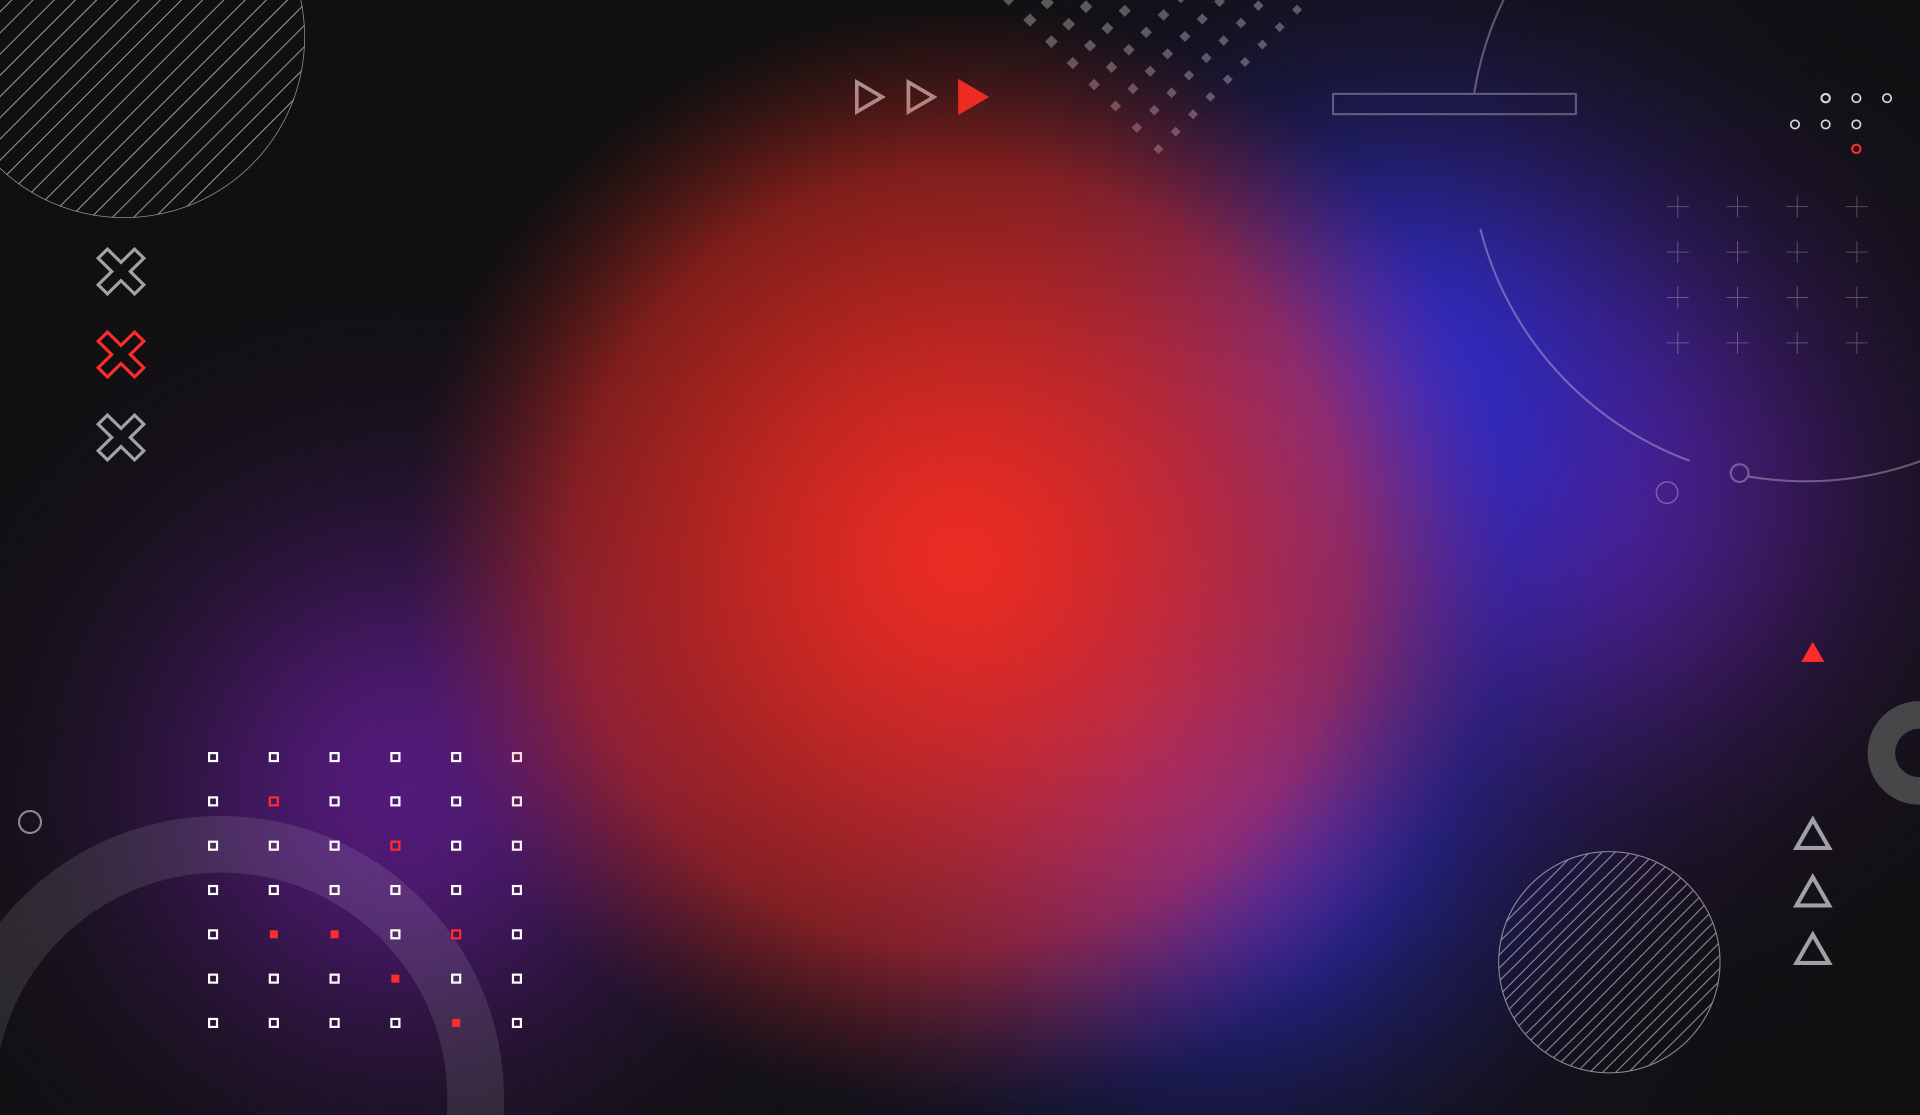
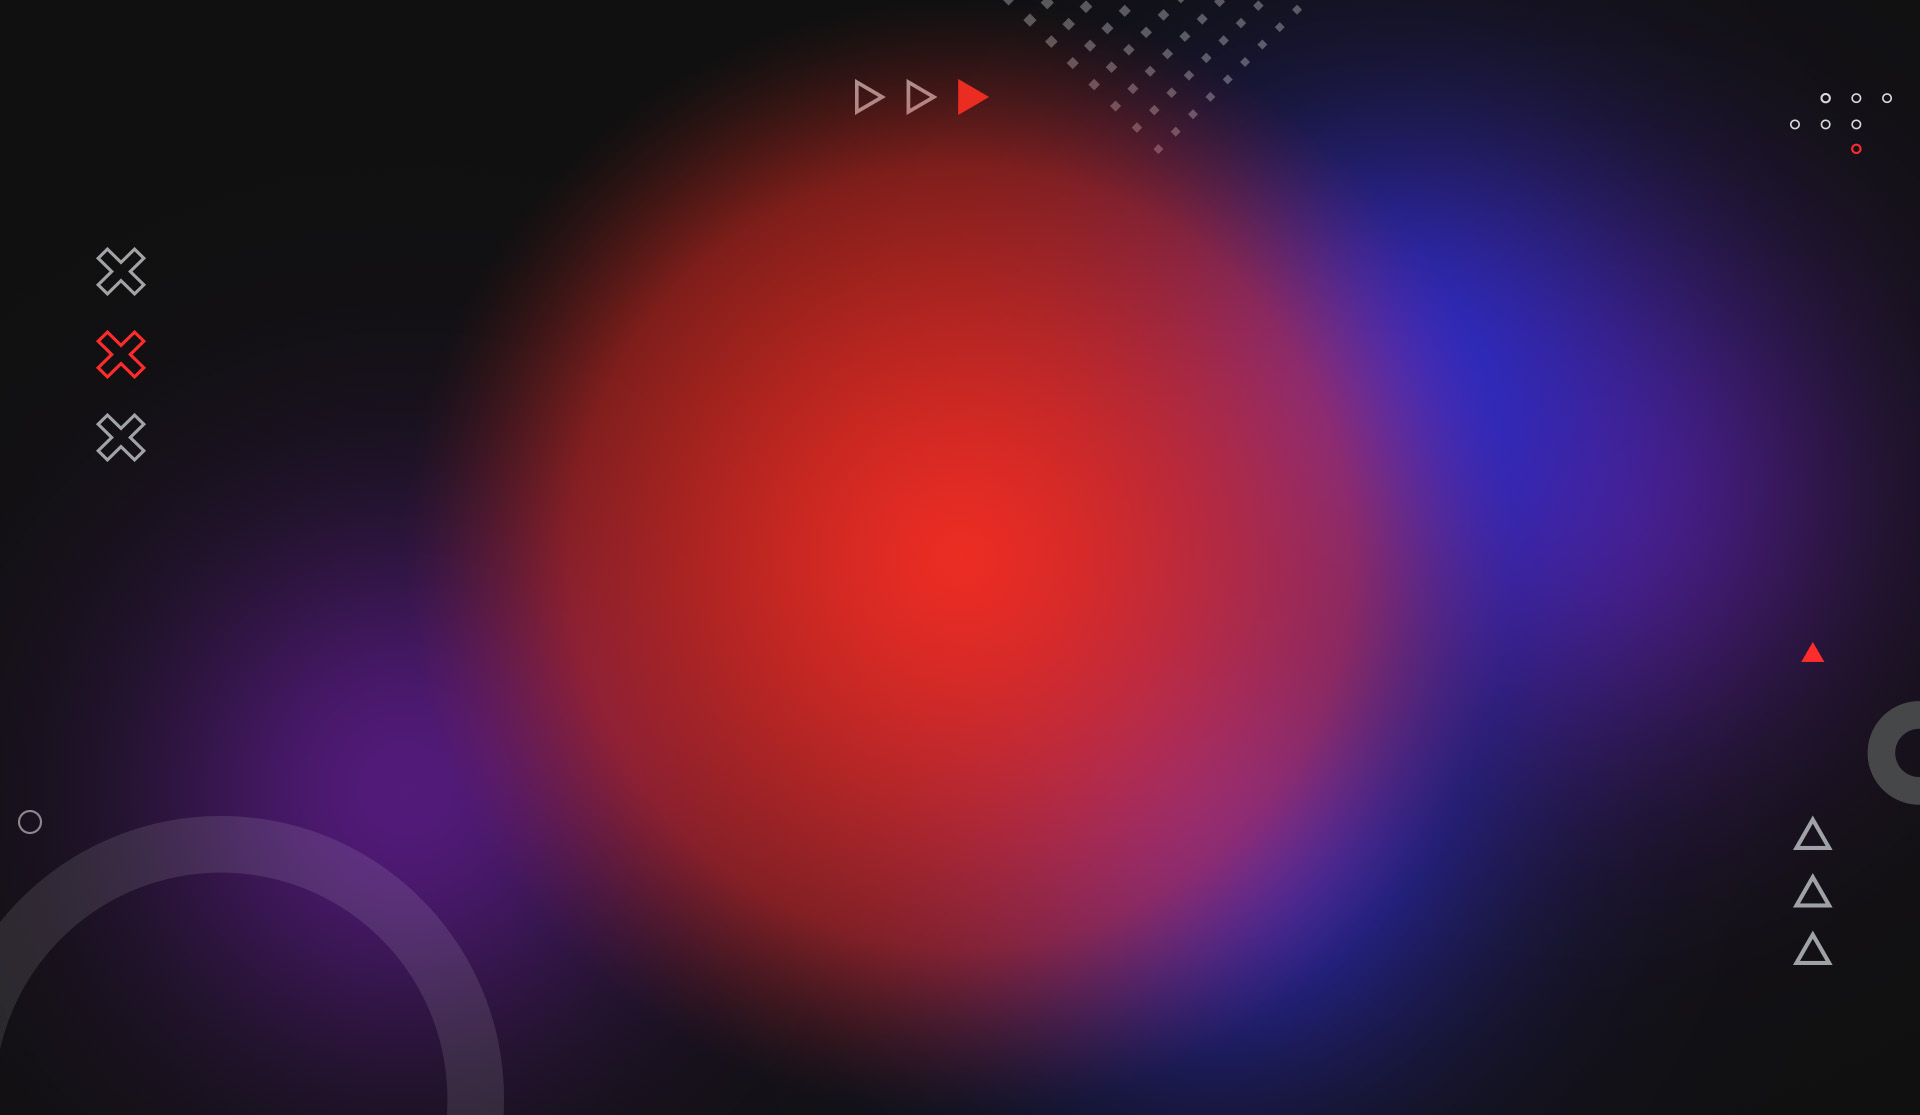
Update Work

Changed region(s): [[0.0, 0.0, 0.1562, 0.183], [0.7812, 0.7623, 0.9062, 0.9758]]

diff --git a/public/css/style.css b/public/css/style.css
@@ -539,6 +539,26 @@ fieldset{padding:0; margin:0; border:0;}
 .ss-card-10 .text-container .title{color:#ffffff;}
 .ss-card-10:hover .text-container .title{color:#ec2c23;}
 
+.ss-card-10.style-02 .icon{
+    position:relative; display:flex; justify-content:center; align-items:center; 
+    width:5rem; height:5rem; margin:0 auto; background:#ffffff;
+    border-radius:50%; transition:background .3s, color .3s;
+}
+.ss-card-10.style-02:hover .icon{background:transparent;}
+.ss-card-10.style-02 .icon > .tech-stack{position: relative; fill:#ec2c23; display:block; width:3rem; height:3rem; transition:fill .3s;}
+.ss-card-10.style-02:hover .icon > .tech-stack{fill:#ffffff;}
+.ss-card-10.style-02:hover .icon > .tech-stack.h-red{fill:#ec2c23;} /* For Bootstrap Icon */
+
+.ss-card-10.style-02 .icon::before{
+    content:''; position:absolute; top:0; left:0; right:0; bottom:0;  margin:auto;
+    background:#ec2c23; border-radius:50%; visibility:hidden;
+    width:calc(100% - .75rem); height:calc(100% - .75rem);
+    opacity:0; transform:scale(.8); transition:all .3s ease;
+}
+.ss-card-10.style-02:hover .icon::before{
+    visibility:visible; opacity:1; transform:scale(1);
+}
+
 /* Special Card 11 */
 .ss-card-11{position:relative; cursor:pointer;}
 .ss-card-11 .text-container{
@@ -702,8 +722,13 @@ fieldset{padding:0; margin:0; border:0;}
     margin:0; height:0; -webkit-line-clamp:4; opacity:0; transition:height .3s, opacity .3s;
 }
 .ss-card-31:hover .text-container .desc{height:6rem; opacity:1;}
-.ss-card-31 .card-more{display:flex; align-items:center; color:#ec2c23; margin:0;}
-.ss-card-31:hover .card-more{margin:2rem 0 0 0;}
+.ss-card-31 .card-more{
+    display:flex; align-items:center; color:#ec2c23; margin:0; max-width:8.5rem;
+}
+.ss-card-31:hover .card-more{
+    margin:2rem 0 0 0; background:#ffffff; border-radius:1000em; 
+    padding:.375rem 0 .375rem .9375rem;
+}
 .ss-card-31 .card-more > .arrow-icon{margin:.125rem 0 0 .375rem; transition:margin .3s;}
 .ss-card-31:hover .card-more .arrow-icon{margin:.125rem 0 0 .75rem;}
 @media screen and (max-width:1199.98px){

diff --git a/public/css/blocks.css b/public/css/blocks.css
@@ -27,6 +27,25 @@
 .section-01 > .pattern.style-06{
   position:absolute; bottom:50%; left:-24%; right:auto; height:1rem; z-index:1;
 }
+.section-01 > .pattern.style-07{
+  position:absolute; bottom:5rem; left:3.5rem; right:auto; z-index:1;
+}
+.section-01 > .pattern.style-07 > .wrapper img{display:block; width:16rem; height:auto;}
+
+.section-01 > .pattern.style-08{
+  position:absolute; bottom:4.5rem; left:auto; right:11rem; z-index:1;
+}
+.section-01 > .pattern.style-08 > .wrapper img{display:block; width:11rem; height:auto;}
+
+.section-01 > .pattern.style-09{
+  position:absolute; top:-12rem; left:auto; right:-9rem; z-index:1;
+}
+.section-01 > .pattern.style-09 > .wrapper img{display:block; width:40rem; height:auto;}
+
+.section-01 > .pattern.style-10{
+  position:absolute; top:-11rem; left:-5rem; right:auto; z-index:1;
+}
+.section-01 > .pattern.style-10 > .wrapper img{display:block; width:19rem; height:auto;}
 
 .section-01 > .img-bg{
   position:absolute; top:0; bottom:0; left:0; right:0; background-size:cover;

diff --git a/01-home.php b/01-home.php
@@ -71,7 +71,6 @@
   </section>
 
   <section data-section="3" class="section-01 size-02">
-    <!-- <div class="img-bg" style="background-image:url('public/img/bg/19.jpg');"></div>  -->
     <video autoplay muted loop class="video-preview">
       <source src="public/video/02.mp4" type="video/mp4">
     </video>
@@ -84,37 +83,6 @@
         <p class="sm color-white text-center fw-300 mt-6 pt-4">Watch Video</p>  
       </div> 
     </div>        
-  </section>
-
-  <section data-section="4" class="section-12">
-    <div class="container">
-      <div class="blocks">
-        <div class="block-float left">
-          <div class="ss-img horizontal-01 no-hover">
-            <div class="img-bg" style="background-image:url('public/img/content/32.jpg');"></div>
-          </div>
-        </div> 
-        <div class="block">
-          <div class="img-bg" style="background-image:url('public/img/bg/04.jpg');"></div>
-          <div class="text-container">
-            <h3 class="lh-2xs color-01 fw-600" data-aos="fade-up" data-aos-delay="0">
-              Digital Marketing <br> 
-              <span class="color-black fw-300">for</span> 
-              <span class="color-black fw-600">Government</span>
-            </h3>
-            <p class="color-03 fw-400 mt-2" data-aos="fade-up" data-aos-delay="150">
-              บริการครบวงจรด้าน Digital Marketing ตั้งแต่ รับเป้าหมาย
-              คิด Concept, Campaign จนถึงตัวชี้วัดโครงการ
-            </p>
-            <div class="btns pt-4" data-aos="fade-up" data-aos-delay="300">
-              <a class="btn btn-action round btn-color-01" href="#">
-                <span class="p xs fw-500">Explore More</span>
-              </a>
-            </div>
-          </div>
-        </div> 
-      </div>    
-    </div>
   </section>
 
   <section data-section="5" class="section-12">
@@ -239,7 +207,6 @@
             'JIGSAW<br>Help Desk', 'JIGSAW<br>Chat Bot', 'JIGSAW<br>Portal', 'JIGSAW<br>Financial', 
             'JIGSAW<br>Asset', 'JIGSAW<br>Sales Force','JIGSAW<br>CRM', 'JIGSAW<br>HRM', 
             'JIGSAW<br>HRD', 'JIGSAW<br>Budgeting'
-
           ];
         ?>
 
@@ -330,17 +297,37 @@
   </section>
 
   <section data-section="9" class="section-01 section-padding">
+    <div class="pattern style-07">
+      <div class="wrapper" value="-.5">
+        <img src="public/img/content/pattern-01.png" alt="Hero" />
+      </div>
+    </div>
+    <div class="pattern style-08">
+      <div class="wrapper" value="-.5">
+        <img src="public/img/content/pattern-11.png" alt="Hero" />
+      </div>
+    </div>
+    <div class="pattern style-09">
+      <div class="wrapper" value="-.5">
+        <img src="public/img/content/pattern-12.png" alt="Hero" />
+      </div>
+    </div>
+    <div class="pattern style-10">
+      <div class="wrapper" value="-.5">
+        <img src="public/img/content/pattern-13.png" alt="Hero" />
+      </div>
+    </div>
     <div class="img-bg" style="background-image:url('public/img/bg/37.jpg'); background-position:bottom center;"></div>
     <div class="container pt-6 pb-6">
       <h3 class="text-center color-01 fw-600" data-aos="fade-up" data-aos-delay="0">
         Virtual World <span class="color-white">Services</sapn>
       </h3>
-      <div class="grids jc-center mt-4" data-aos="fade-up" data-aos-delay="150">
+      <div class="grids jc-center pos-relative mt-4" style="z-index:2;" data-aos="fade-up" data-aos-delay="150">
         <?php for($i=0; $i<3; $i++){?>
           <div class="grid lg-1-3">
             <div class="ss-card ss-card-31 box-shadow">
               <div class="ss-img vertical-01">
-                <div class="img-bg" style="background-image:url('public/img/content/v-service-0<?= ($i%2+1) ?>.jpg');"></div>
+                <div class="img-bg" style="background-image:url('public/img/content/v-service-0<?= ($i%3+1) ?>.jpg');"></div>
               </div>
               <div class="filter-01"></div>
               <div class="hover-filter-01"></div>
@@ -414,7 +401,7 @@
             <div class="gallery-grids jc-center" data-aos="fade-up" data-aos-delay="150">
               <?php for($i=0; $i<20; $i++){?>
                 <div class="grid xl-20 lg-25 md-1-3 sm-20 xs-1-3 pt-3">
-                  <div class="ss-card ss-card-14">
+                  <div class="ss-card ss-card-10 style-02">
                     <div class="icon">
                      <?php echo $svgs[$i] ?>
                     </div>
